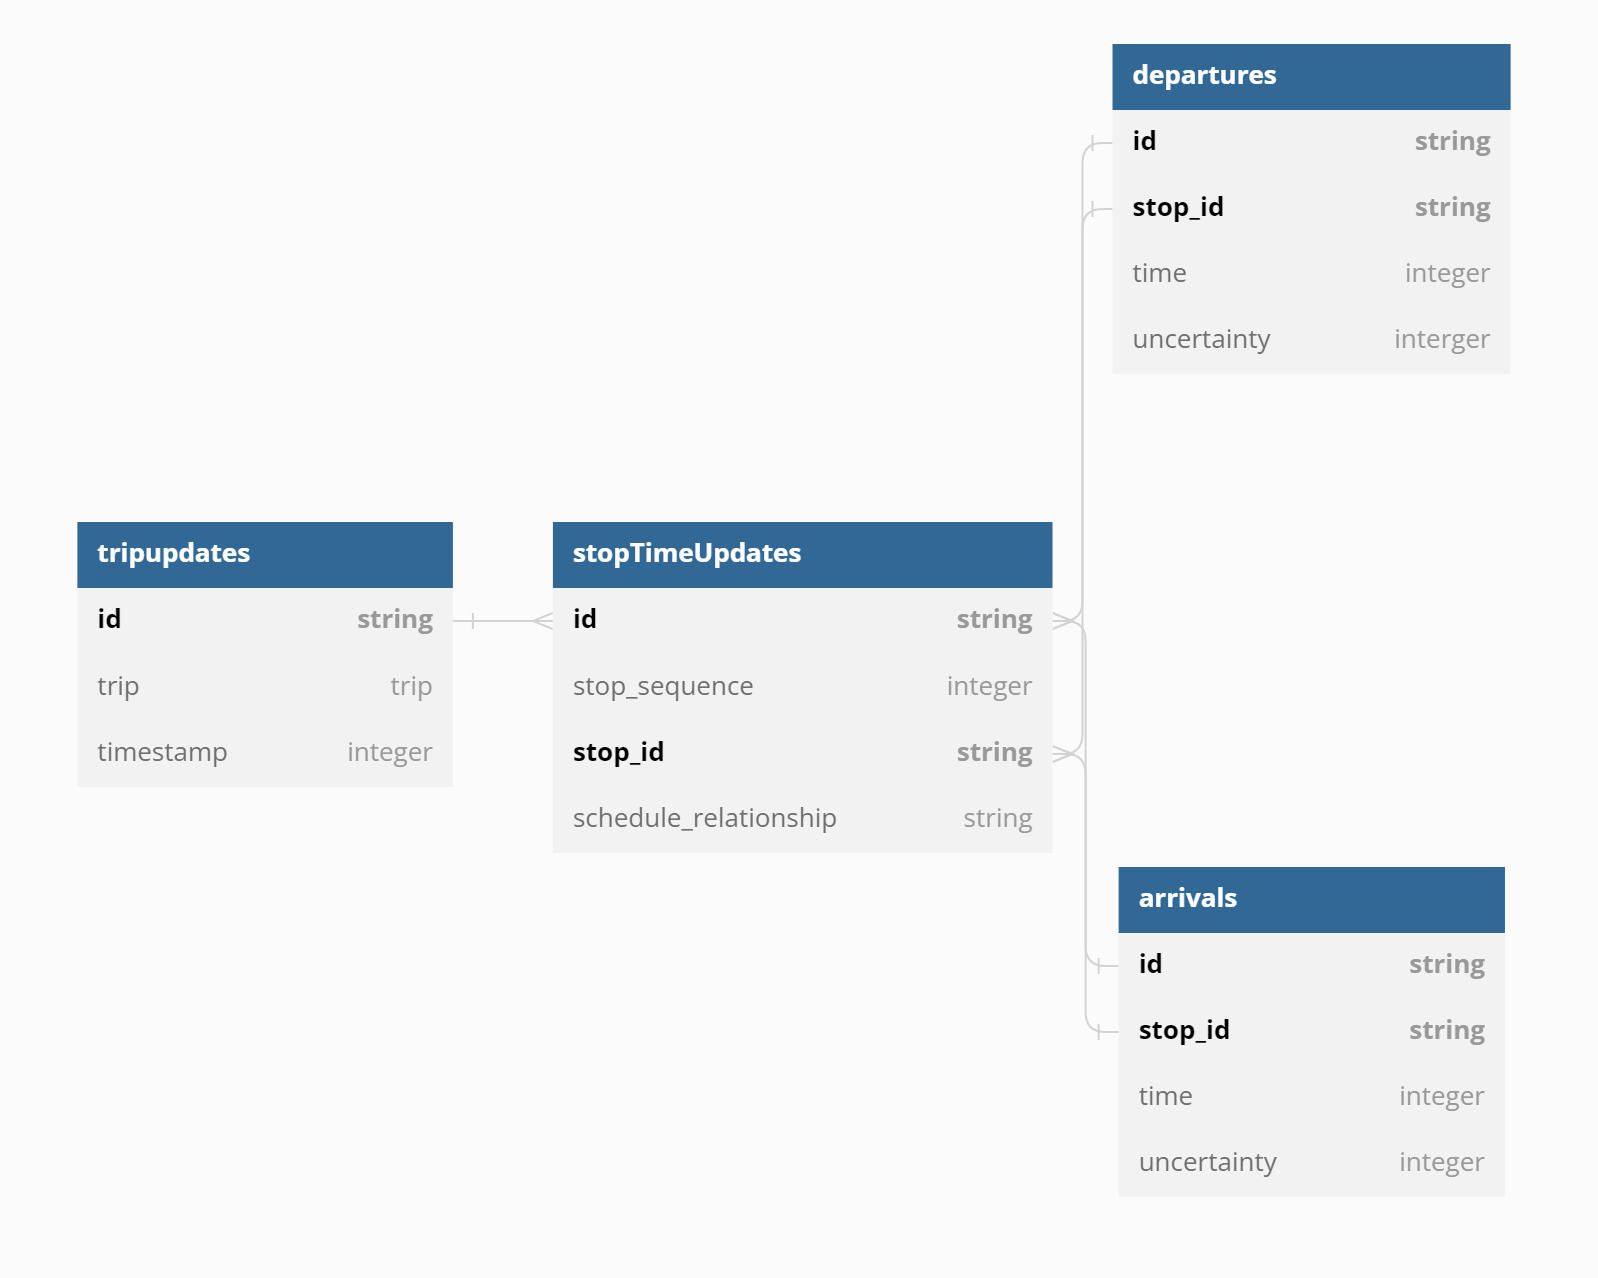
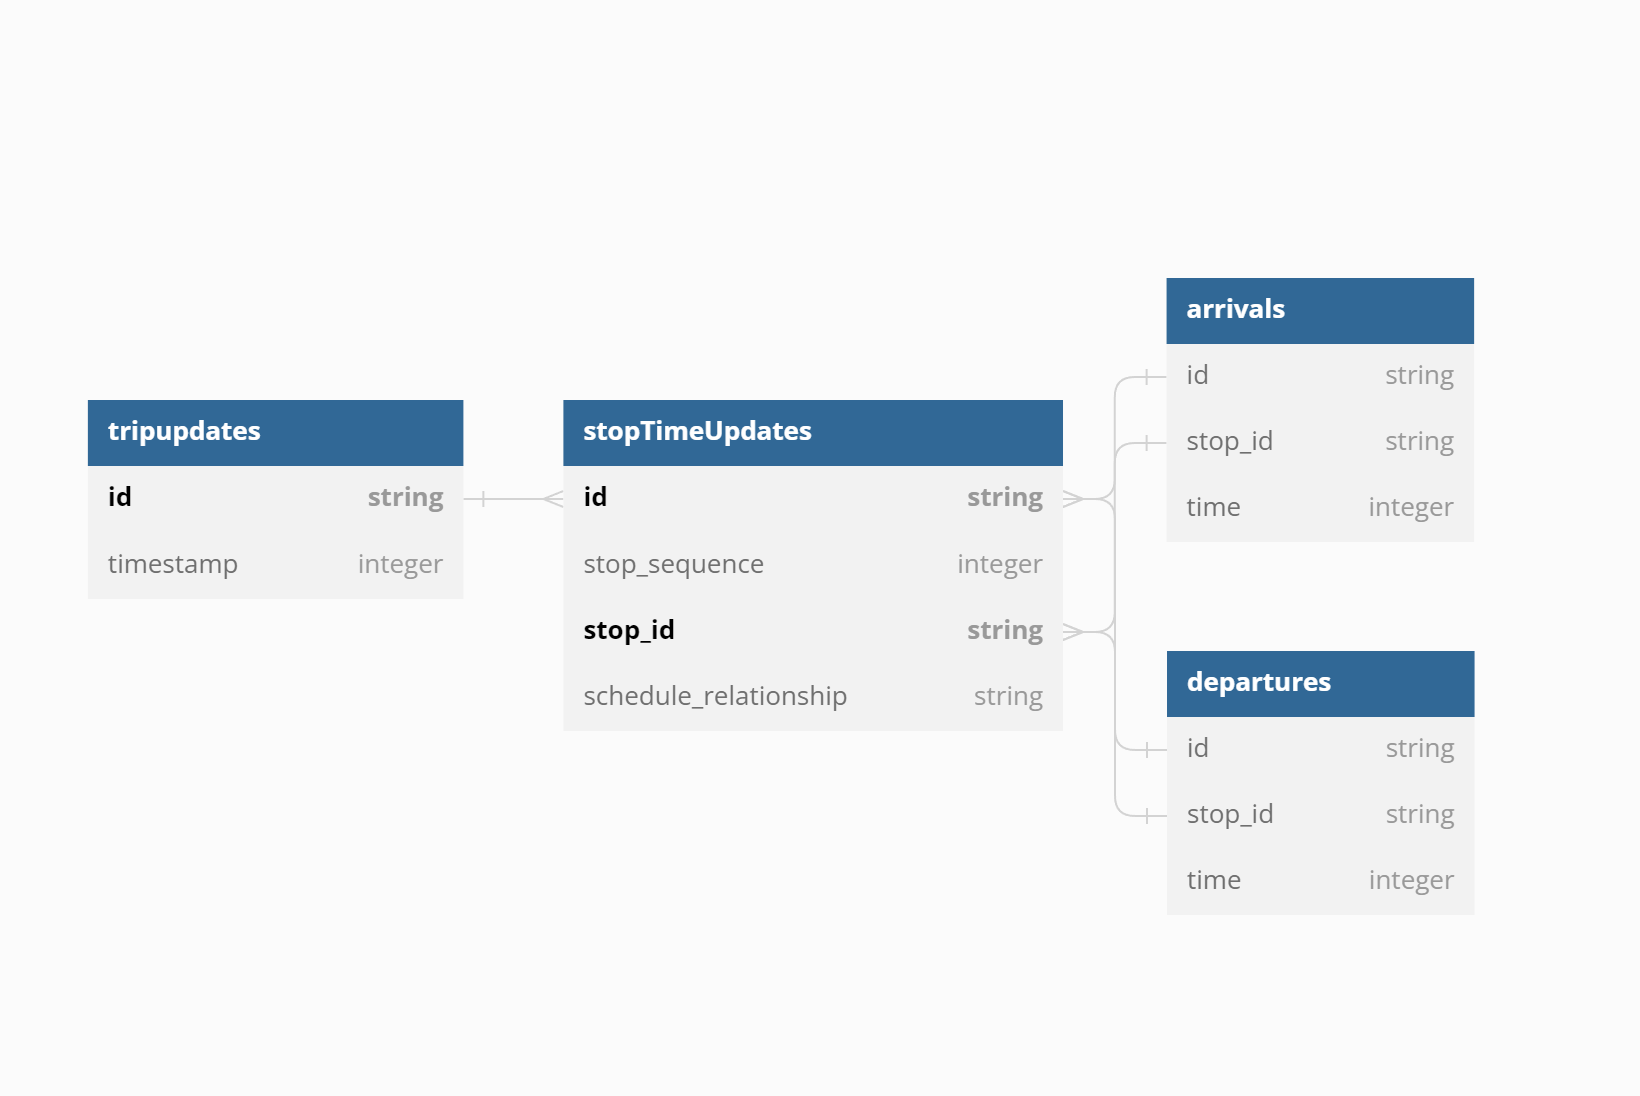
Scratch/stry00000003 (#3)
* messy working version of server API

* refactored db functions in main.py and server.py, added key template

* fixed db_schema.png to match actual DB

diff --git a/main.py b/main.py
@@ -1,52 +1,26 @@
 import argparse
-import mysql.connector
 import keys
 import db_util
 import requests
 import json
 
 #TODO add ARGs to handle clearing DB and parsing data options
+db_util.db_check()
+db, mycursor = db_util.init_db()
 
-DATABASE_NAME = "vtadatabase"
-TRIPUPDATES_TABLE = "TripUpdates"
-STOPTIMEUPDATES_TABLE = "StopTimeUpdates"
-DEPARTURES_TABLE = "Departures"
-ARRIVALS_TABLE = "Arrivals"
-
-dbCheck = mysql.connector.connect(
-  host="localhost",
-  user=keys.user,
-  password=keys.password,
-)
-
-mycursor = dbCheck.cursor()
-mycursor.execute("CREATE DATABASE IF NOT EXISTS " + DATABASE_NAME)
-db_util.show_databases(mycursor)
-
-db = mysql.connector.connect(
-  host="localhost",
-  user=keys.user,
-  password=keys.password,
-  database=DATABASE_NAME
-)
-
-mycursor = db.cursor()
-#TODO move this to a separate module
-mycursor.execute("CREATE TABLE IF NOT EXISTS " + TRIPUPDATES_TABLE + " (id VARCHAR(255), timestamp INT, PRIMARY KEY (id))")
-mycursor.execute("CREATE TABLE IF NOT EXISTS " + STOPTIMEUPDATES_TABLE + " (id VARCHAR(255), stop_sequence INT, stop_id VARCHAR(255), schedule_relationship VARCHAR(255), PRIMARY KEY (id, stop_id))")
-mycursor.execute("CREATE TABLE IF NOT EXISTS " + DEPARTURES_TABLE + " (id VARCHAR(255), stop_id VARCHAR(255), time INT, PRIMARY KEY (id, stop_id))")
-mycursor.execute("CREATE TABLE IF NOT EXISTS " + ARRIVALS_TABLE + " (id VARCHAR(255), stop_id VARCHAR(255), time INT, PRIMARY KEY (id, stop_id))")
-db_util.show_tables(mycursor)
+#TODO fix trip_updates schema to match this
+db_util.create_tables(mycursor)
 
 #TODO add error handling for API call
-#TODO fix strings to new concat style
 data = requests.get('https://api.goswift.ly/real-time/vta/gtfs-rt-trip-updates?apiKey=' + keys.API_key + '&format=json')
 data = json.loads(data.text)
 data = data["entity"]
 
 #TODO clean up this loop
 #for every tripupdate
+count = 0
 for update_set in data:
+  count += 1
   trip_update = update_set['tripUpdate']
   #for every stopTimeUpdate
   if 'stopTimeUpdate' in trip_update:
@@ -67,16 +41,10 @@ for update_set in data:
         query = "INSERT IGNORE INTO arrivals (id, stop_id, time) VALUES (%s, %s, %s)"
         val = (update_set["id"], stop_update["stopId"], arrival['time'])
         mycursor.execute(query,val)
-
   query = "INSERT IGNORE INTO tripupdates (id, timestamp) VALUES (%s, %s)"
   val = (update_set["id"], trip_update["timestamp"])
   mycursor.execute(query,val)
 
-mycursor.execute("select * from " + TRIPUPDATES_TABLE)
-i = 0
-for x in mycursor:
-  i = i + 1
-print(i)
-
+print("Logged", count, "entries")
 db.commit()
 db.close()

diff --git a/db_util.py b/db_util.py
@@ -1,3 +1,47 @@
+import mysql.connector
+import keys
+
+DATABASE_NAME = "vtadatabase"
+TRIPUPDATES_TABLE = "TripUpdates"
+STOPTIMEUPDATES_TABLE = "StopTimeUpdates"
+DEPARTURES_TABLE = "Departures"
+ARRIVALS_TABLE = "Arrivals"
+
+#TODO add function headers
+
+def db_check():
+  dbCheck = mysql.connector.connect(
+    host="localhost",
+    user=keys.user,
+    password=keys.password,
+  )
+  cursor = dbCheck.cursor()
+  cursor.execute("CREATE DATABASE IF NOT EXISTS " + DATABASE_NAME)
+  show_databases(cursor)
+
+def clear_data(cursor):
+  cursor.execute("DROP TABLE tripupdates")
+  cursor.execute("DROP TABLE stoptimeupdates")
+  cursor.execute("DROP TABLE departures")
+  cursor.execute("DROP TABLE arrivals")
+
+def create_tables(cursor):
+  cursor.execute("CREATE TABLE IF NOT EXISTS " + TRIPUPDATES_TABLE + " (id VARCHAR(255), timestamp INT, PRIMARY KEY (id))")
+  cursor.execute("CREATE TABLE IF NOT EXISTS " + STOPTIMEUPDATES_TABLE + " (id VARCHAR(255), stop_sequence INT, stop_id VARCHAR(255), schedule_relationship VARCHAR(255), PRIMARY KEY (id, stop_id))")
+  cursor.execute("CREATE TABLE IF NOT EXISTS " + DEPARTURES_TABLE + " (id VARCHAR(255), stop_id VARCHAR(255), time INT, PRIMARY KEY (id, stop_id))")
+  cursor.execute("CREATE TABLE IF NOT EXISTS " + ARRIVALS_TABLE + " (id VARCHAR(255), stop_id VARCHAR(255), time INT, PRIMARY KEY (id, stop_id))")
+  show_tables(cursor)
+
+def init_db():
+  db = mysql.connector.connect(
+    host="localhost",
+    user=keys.user,
+    password=keys.password,
+    database=DATABASE_NAME
+  )
+  mycursor = db.cursor()
+  return db, mycursor
+
 def show_tables(cursor):
   cursor.execute("SHOW TABLES")
   print("TABLES:")

diff --git a/server.py b/server.py
@@ -1,0 +1,32 @@
+from flask import Flask, json
+import keys
+import mysql.connector
+import db_util
+
+#TODO move DB creation to a separate module
+db, mycursor = db_util.init_db()
+
+#TODO clean this up
+query = "SELECT json_arrayagg(json_object('id', id, 'tripupdates', " \
+"json_object('stoptimeupdate', (" \
+"SELECT json_arrayagg(json_object('stop_sequence', stop.stop_sequence, 'stop_id', stop.stop_id" \
+", 'arrival'," \
+"(SELECT json_object('time', arr.time) from arrivals as arr WHERE stop.id = arr.id AND stop.stop_id = arr.stop_id)" \
+", 'departure'," \
+"(SELECT json_object('time', dept.time) from departures as dept WHERE stop.id = dept.id AND stop.stop_id = dept.stop_id)"\
+")) FROM stopTimeUpdates AS stop WHERE stop.id = trip.id))" \
+", 'timestamp', timestamp)) FROM tripUpdates as trip LIMIT 100"
+
+mycursor.execute(query)
+result = ""
+for x in mycursor:
+  result = result + x[0]
+
+api = Flask(__name__)
+
+@api.route('/real-time/trip-updates', methods=['GET'])
+def get_trip_updates():
+  return result
+
+if __name__ == '__main__':
+    api.run()

diff --git a/keys_template.py b/keys_template.py
@@ -1,0 +1,3 @@
+user="value"
+password="value"
+API_key="value"

diff --git a/README.md b/README.md
@@ -1,5 +1,9 @@
 # VTA_APP
 
+install modules
+create key.py file
+#TODO create key template
+
 STRY00000001: Create base template
 STRY00000002: Parse API data and store into SQL DB
 STRY00000003 [planned]: Create Server
